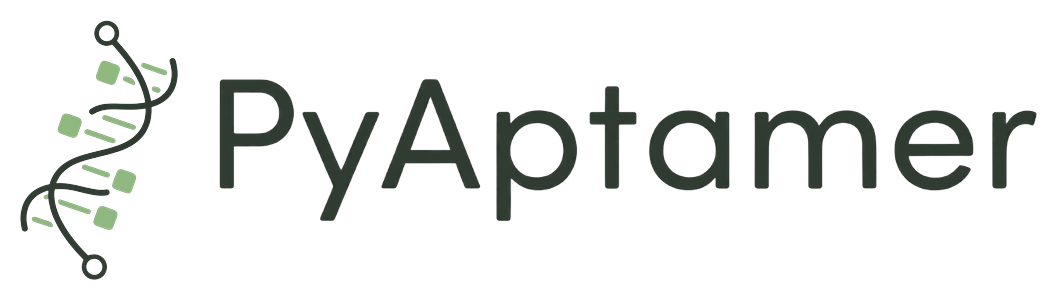
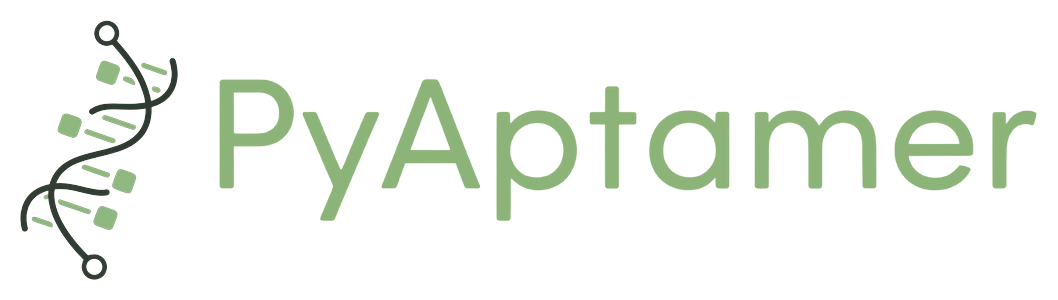
changing font to light green

Changed region(s): [[0.1871, 0.24, 0.9981, 0.75]]

diff --git a/README.md b/README.md
@@ -1,7 +1,4 @@
-<picture>
-  <source media="(prefers-color-scheme: dark)" srcset="docs/assets/pyaptamer_banner_dark.png">
-  <img src="docs/assets/pyaptamer_banner.png" alt="pyaptamer logo" width="420">
-</picture>
+<img src="docs/assets/pyaptamer_banner.png" alt="pyaptamer logo" width="420"/>
 
 ### AI for aptamer discovery
 
